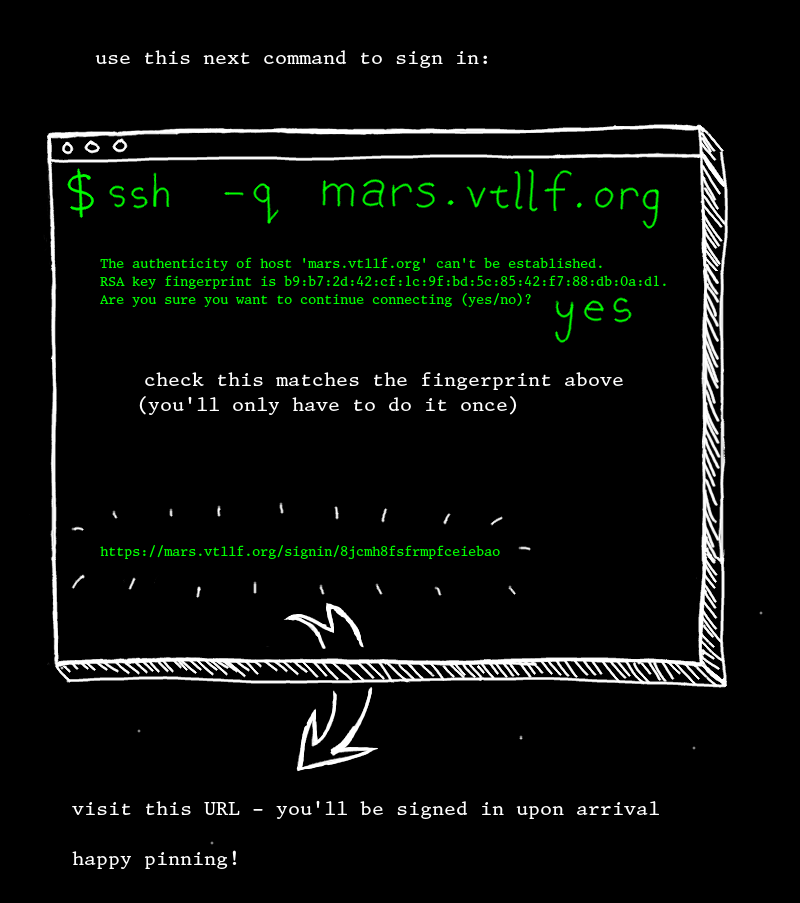
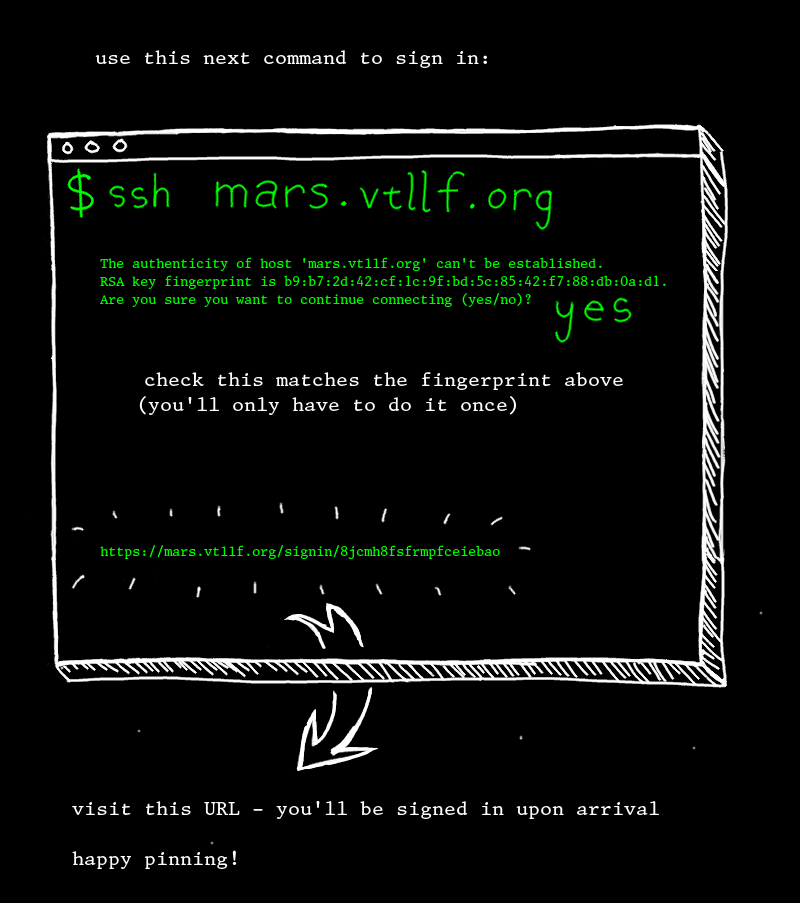
Don't suggest the `ssh -q` option to users.
It hides too much information in cases when the connection fails.

Changed region(s): [[0.25, 0.186, 0.7188, 0.2481], [0.75, 0.186, 0.8125, 0.2481], [0.8125, 0.2171, 0.8438, 0.2481]]

diff --git a/assets/index.html b/assets/index.html
@@ -30,7 +30,7 @@
           <a href="/" class="back sp-link"><img src="images/back.svg"/><span>Back</span></a>
           <p>This demo shows how it's possible to sign into websites using SSH.</p>
           <h2>Already have an SSH key?</h2>
-          <p><code>ssh -q {{ .Domain }}</code></p>
+          <p><code>ssh {{ .Domain }}</code></p>
           <h2>New to SSH?</h2>
           <p><a href="how">Here's how to do it</a></p>
           <div class="footnotes">
@@ -47,7 +47,7 @@
           <p>If you'd rather not reveal your regular fingerprint, make a throwaway instead:</p>
           <p><code>ssh-keygen -f throwaway</code></p>
           <p>Then sign in like this:</p>
-          <p><code>ssh -qi throwaway {{ .Domain }}</code></p>
+          <p><code>ssh -i throwaway {{ .Domain }}</code></p>
           <p>Using ssh-agent? Disable your regular key before signing in:</p>
           <p><code>ssh-add -d</code></p>
         </div>
